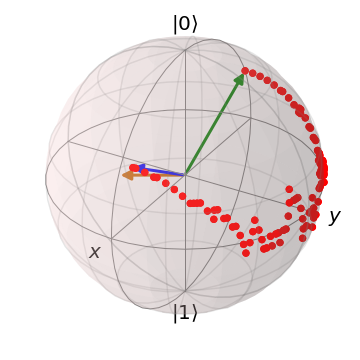
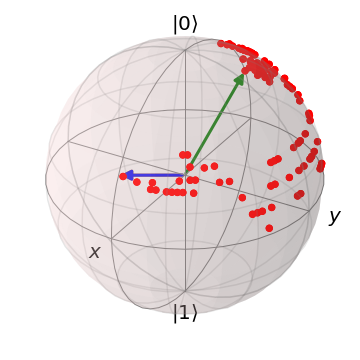
First working version, Agent converges!

Changed region(s): [[0.3361, 0.0917, 0.9167, 0.7333], [0.7333, 0.4278, 0.7944, 0.4583]]

diff --git a/QctRL.py b/QctRL.py
@@ -175,7 +175,7 @@ class Agent:
             self.update(action, alpha, epsilon)
             
 
-    def train_agent(self, starting_action, episodes, alpha_vec, epsilon_vec, replay_freq, replay_episodes, verbose=False, epsilon_i=1, epsilon_f=0):
+    def train_agent(self, starting_action, episodes, alpha_vec, replay_freq, replay_episodes, verbose=False, epsilon_i=1, epsilon_f=0, test=10):
         from tqdm import tqdm
 
         # Train agent
@@ -187,23 +187,23 @@ class Agent:
         self.epsilon_i = epsilon_i
         epsilons = [self.epsilon_i]
         epsilon = self.epsilon_i
+        self.counter = 0
         mavg_rewards = [0]
         avg_reward = 0
         self.avg_reward = avg_reward
         #############################
 
         for index in tqdm(range(episodes)):
-            #epsilon = epsilon_vec[index] # Uses the old method
 
             self.train_episode(starting_action, alpha_vec[index], epsilon, replay=False)
             rewards.append(self.env.reward)
             mavg_rewards.append(((mavg_rewards[-1]*index) + self.env.reward)/(index+1))
 
             #############################
-            avg_reward += self.env.reward
+            #avg_reward += self.env.reward
             if index%20==0:
-                epsilon = self.update_greedyness(episodes, index, epsilon, avg_reward)
-                avg_reward = 0
+                epsilon = self.update_greedyness(episodes, index, epsilon, mavg_rewards[-1])
+                #avg_reward = 0
             epsilons.append(epsilon)
             #############################
 
@@ -235,13 +235,31 @@ class Agent:
         _, reward = self.generate_protocol(starting_action)
         rewards.append(reward)
 
+        if test is not None:
+            print("----> Testing convergence...")
+            test_sum = 0
+            for _ in range(test):
+                _, reward = self.generate_protocol(starting_action)
+                test_sum += reward
+            error = np.abs(self.best_reward - test_sum/test)
+            if error > 1e-3:
+                print("!WARNING: The Q-table does not converge. Deviating {} from best protocol fidelity".format(error))
+            else:
+                print("Learning seems to be fine!")
+
         return rewards, mavg_rewards, epsilons
 
 
-    def update_greedyness(self, episodes, episode, epsilon, avg_reward):
-        if epsilon > self.epsilon_f and avg_reward >= self.avg_reward:
-            self.avg_reward = avg_reward
-        return self.epsilon_f + (self.epsilon_i - self.epsilon_f)*np.exp(-10*episode/episodes)
+    def update_greedyness(self, episodes, episode, epsilon, avg_reward, max_steps=10, T=8):
+        # max_steps: decides how many steps to tolerate and how much increment to consider for reward threshold
+        # T: is the temperature factor in the exponential decay of the epsilon parameter
+        if (avg_reward >= self.avg_reward) or (self.counter >= max_steps):
+            self.avg_reward += (avg_reward-self.avg_reward)*(max_steps/100) # adds 10% of the increment
+            epsilon = self.epsilon_f + (self.epsilon_i - self.epsilon_f)*np.exp(-T*episode/episodes)
+            self.counter = 0
+        else:
+            self.counter += 1
+        return epsilon
 
 
     def generate_protocol(self, starting_action, **kwargs):
@@ -276,6 +294,50 @@ def get_time_grid(t_max, dt):
     tdict = {i : span[i] for i in range(len(span))}
     return tdict
 
+def protocol_analysis(qstart, qtarget, t_max_vec, n_steps, all_actions, **kwargs):
+
+    L=1
+    g=1
+    starting_action = 0
+    episodes = 20001
+    replay_freq=50
+    replay_episodes=40
+
+    # alpha value
+    a=0.9; eta=0.89
+    alpha = np.linspace(a, eta, episodes)
+
+    agent_init ={
+        # Agent's initialization
+        'nsteps' : n_steps,                  # number of training episodes
+        'nactions' : len(all_actions),  
+        'discount' : 1,                            # exponential discount factor
+        'softmax' : True,
+        'sarsa' : False
+    }
+
+    fidelities = []
+    for _, t_max in enumerate(t_max_vec):
+        print("\n Running training for T={}".format(t_max))
+
+        dt = t_max/n_steps
+        model = quantum_model(qstart, qtarget, dt, L, g, all_actions)
+
+        # initialize the agent
+        learner = Agent(agent_init)
+        learner._init_evironment(model, starting_action, all_actions)
+        # train
+        _ = learner.train_agent(starting_action, episodes, alpha, replay_freq, replay_episodes, verbose=False)
+
+        fidelities.append([t_max, learner.best_reward])
+        #### or ####
+        #_, R = learner.generate_protocol(starting_action)
+        #fidelities.append([t_max, R])
+    
+    return fidelities
+
+
+
 
 ############################################################################
 
@@ -302,7 +364,7 @@ if __name__ == "__main__":
     qstart=qstart/np.sqrt(np.vdot(qstart,qstart))
     qtarget=qtarget/np.sqrt(np.vdot(qtarget,qtarget))
 
-    t_max=2.4
+    t_max=4
     n_steps=100
     dt = t_max/n_steps
 
@@ -333,19 +395,16 @@ if __name__ == "__main__":
     print("---> N_states=", agent_init['nsteps']*agent_init['nactions'])
     print("---> Actions=", all_actions)
 
-    # alpha value and epsilon
+    # alpha value
     a=0.9
     eta=0.89
     alpha = np.linspace(a, eta, episodes)
-    epsilon = np.linspace(0, 7, episodes) #epsilon gets smaller i.e. action become more greedy as episodes go on
-    epsilon = np.exp(-epsilon)
-
     
     # initialize the agent
     learner = Agent(agent_init)
     learner._init_evironment(model, starting_action, all_actions)
     # train
-    rewards, avg_rewards, epsilons = learner.train_agent(starting_action, episodes, alpha, epsilon, replay_freq, replay_episodes, verbose=False)
+    rewards, avg_rewards, epsilons = learner.train_agent(starting_action, episodes, alpha, replay_freq, replay_episodes, verbose=False)
 
     #### VARIOUS VISUALIZATION TASKS ####
     print("Best protocol Reward: {}".format(learner.best_reward))
